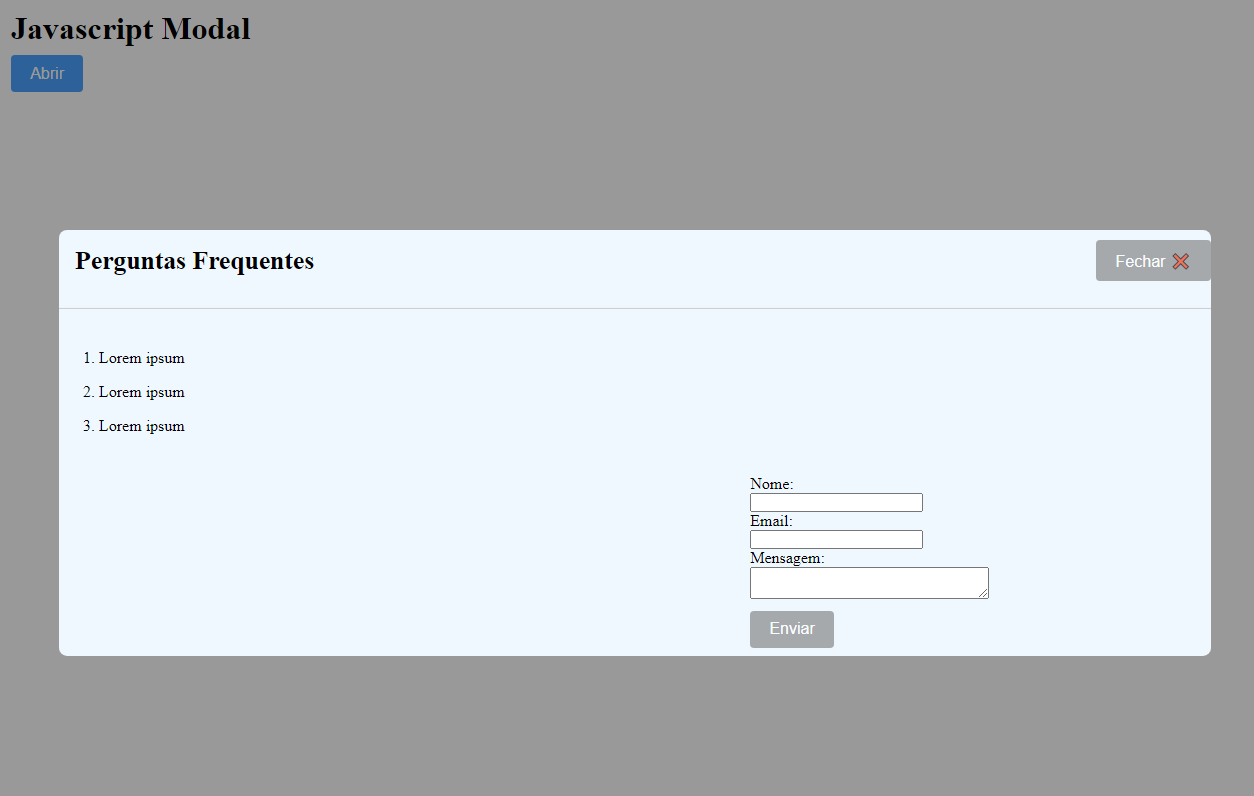
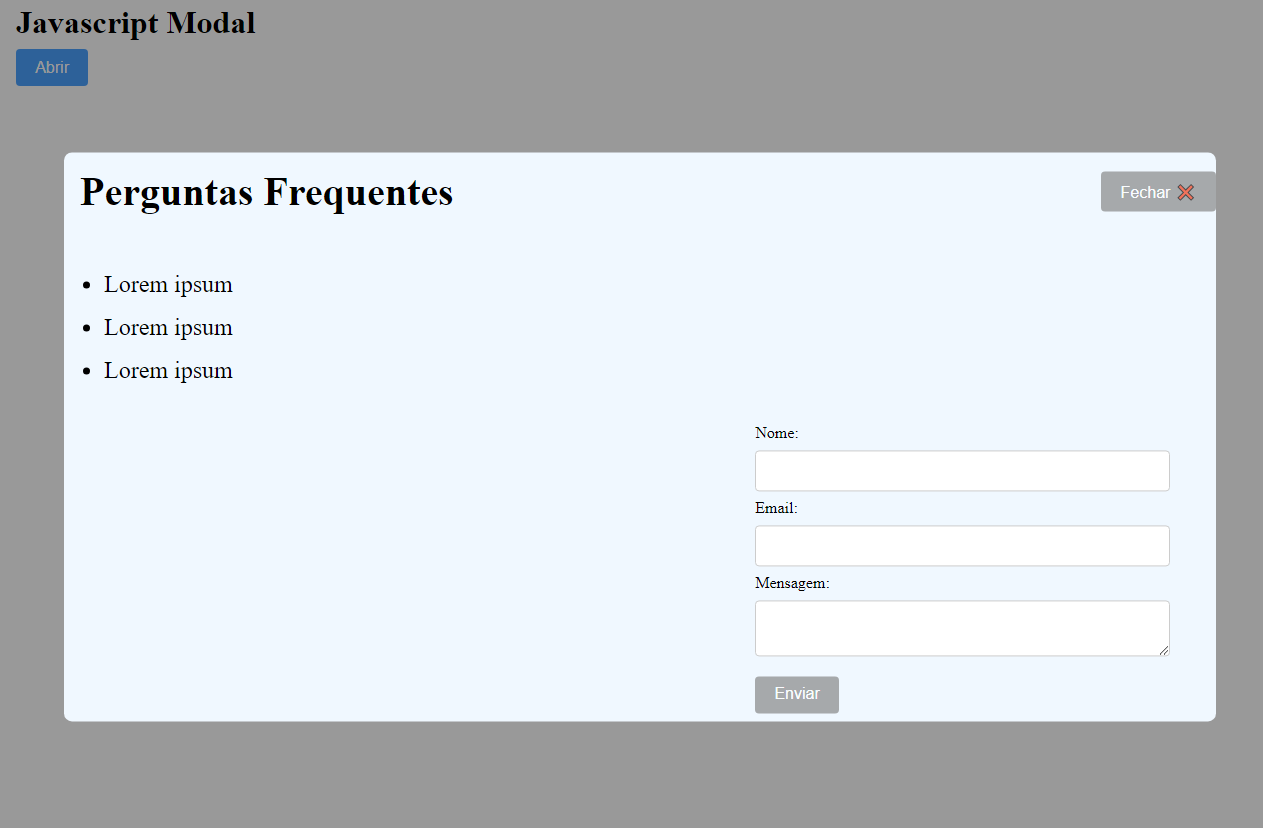
Adicionado imagem de primeiro layout
Primeiro layout feito com codigo

diff --git a/README.md b/README.md
@@ -35,3 +35,7 @@ Após briefing realizado a cliente otpou pela opção de **um modal javascript**
 - **Após a cliente escolher a versão do modal**, foi feito um fluxograma para explicar como funcionaria a codificação.
 
 ![Fluxograma](./assets/images/readme/fluxograma-da-funcao-JavaScript.jpg)
+
+## Primeiro Layout Codificado
+
+![Primeiro Layout](./assets/images/readme/primeiro-layout-codificado.png)
